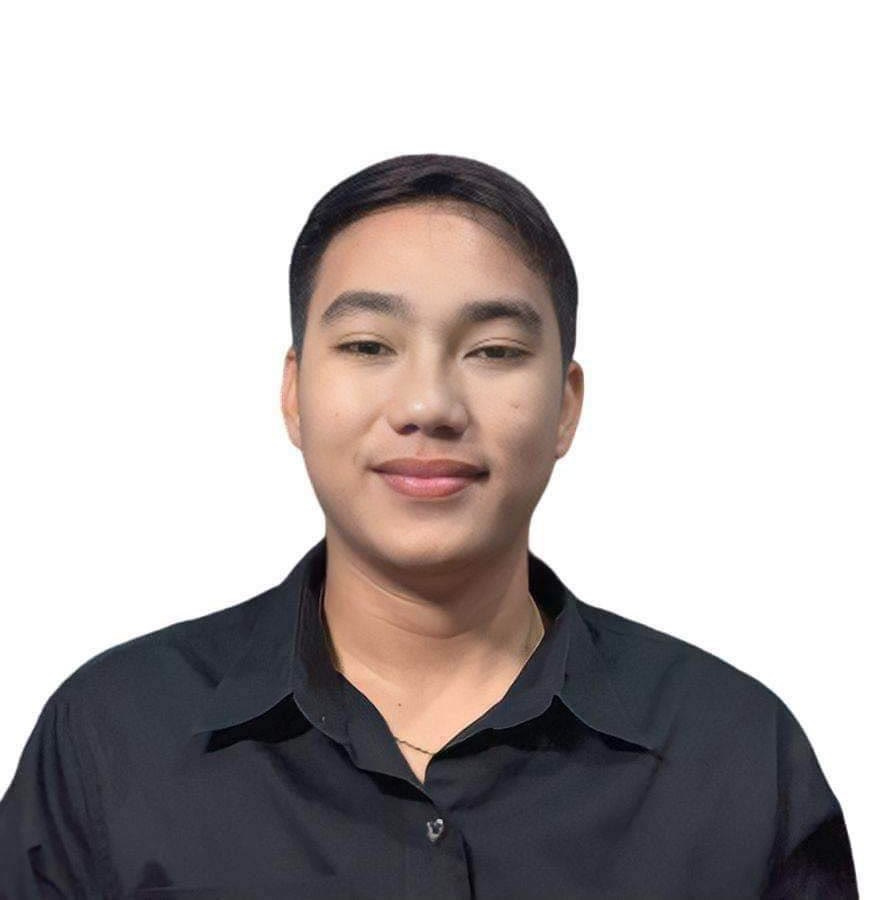
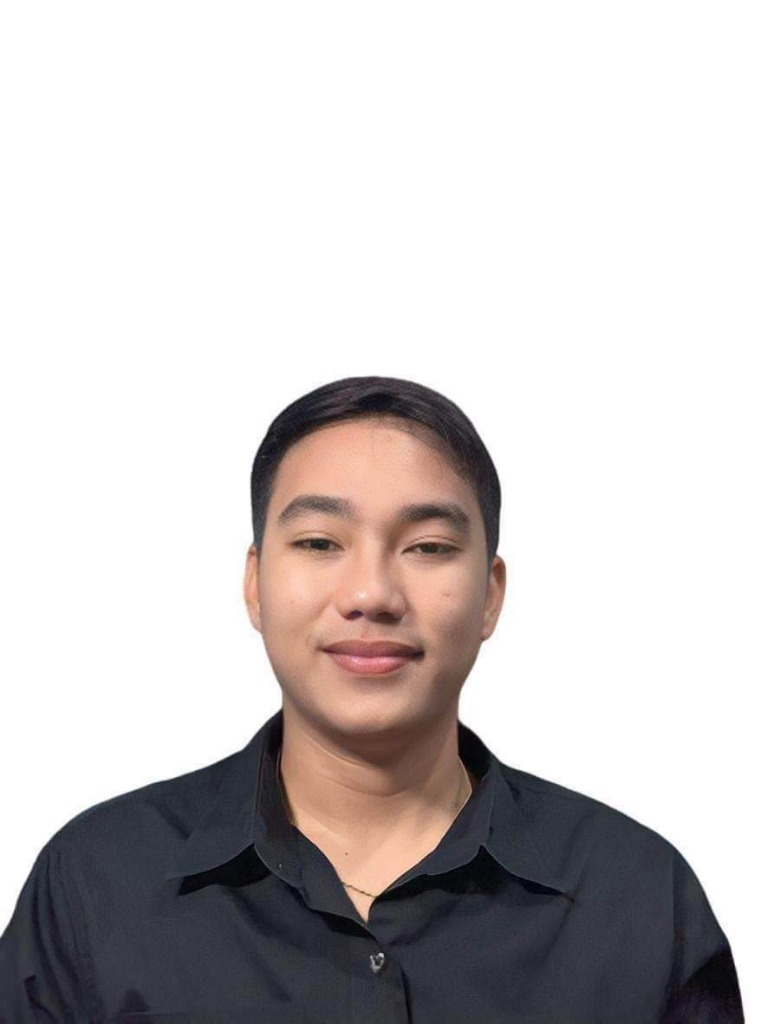
Fix profile picture

Changed region(s): [[0.0, 0.1556, 0.9688, 0.9644], [0.3438, 0.9022, 0.375, 0.9333], [0.0312, 0.9333, 0.0625, 0.9644]]

diff --git a/src/styles.css b/src/styles.css
@@ -381,6 +381,7 @@ button {
   margin: 0 calc(-1 * var(--pad-x)) 0 0;
   min-height: clamp(420px, 43vw, 590px);
   border-radius: 28px 0 0 0;
+  background: var(--surface);
 }
 
 .hero__figure img {
@@ -393,7 +394,7 @@ button {
   object-fit: cover;
   object-position: center top;
   filter: none;
-  mix-blend-mode: normal;
+  mix-blend-mode: multiply;
   opacity: 1;
 }
 
